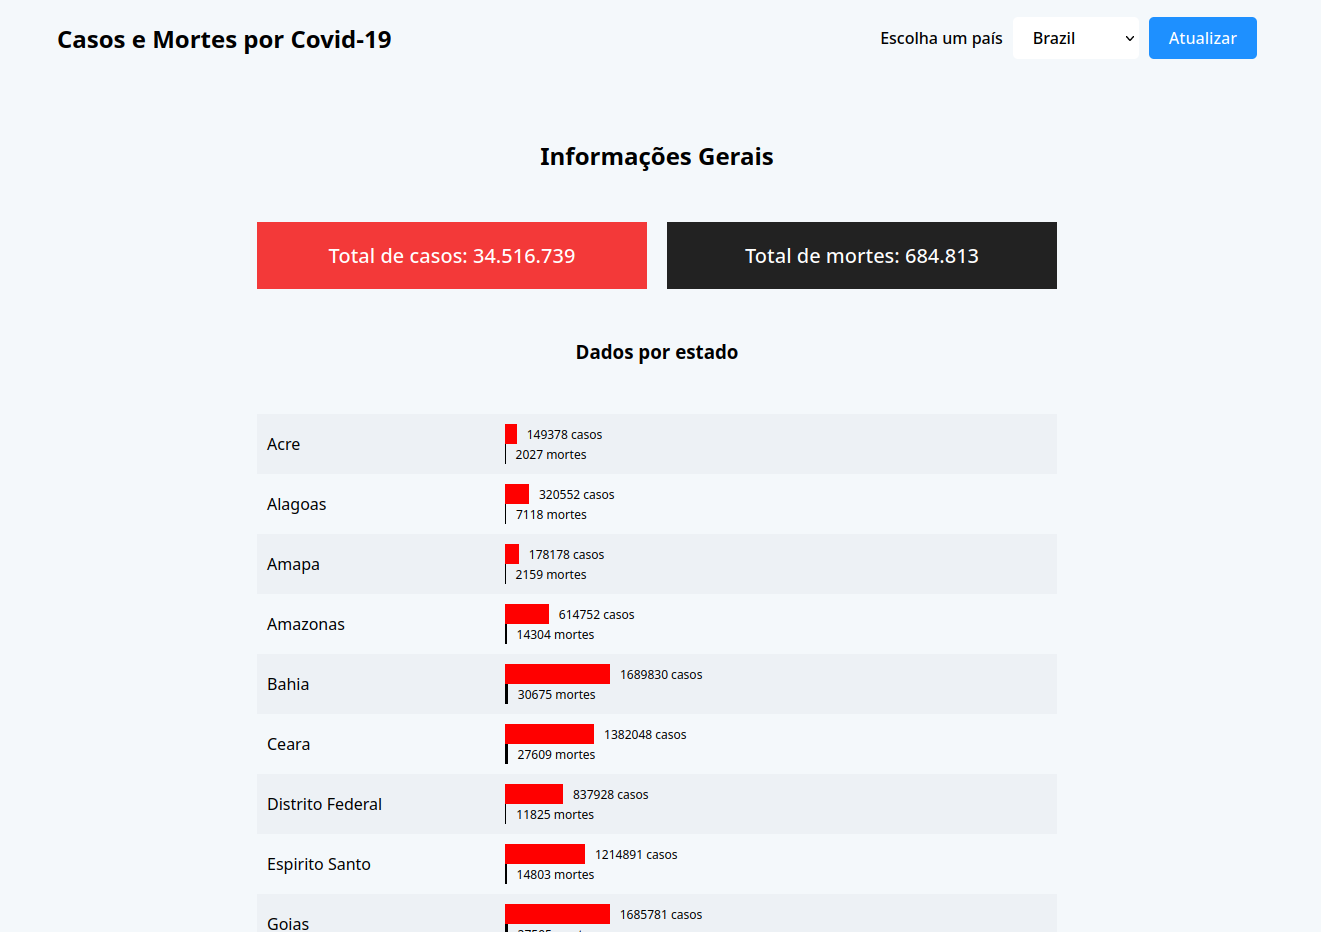
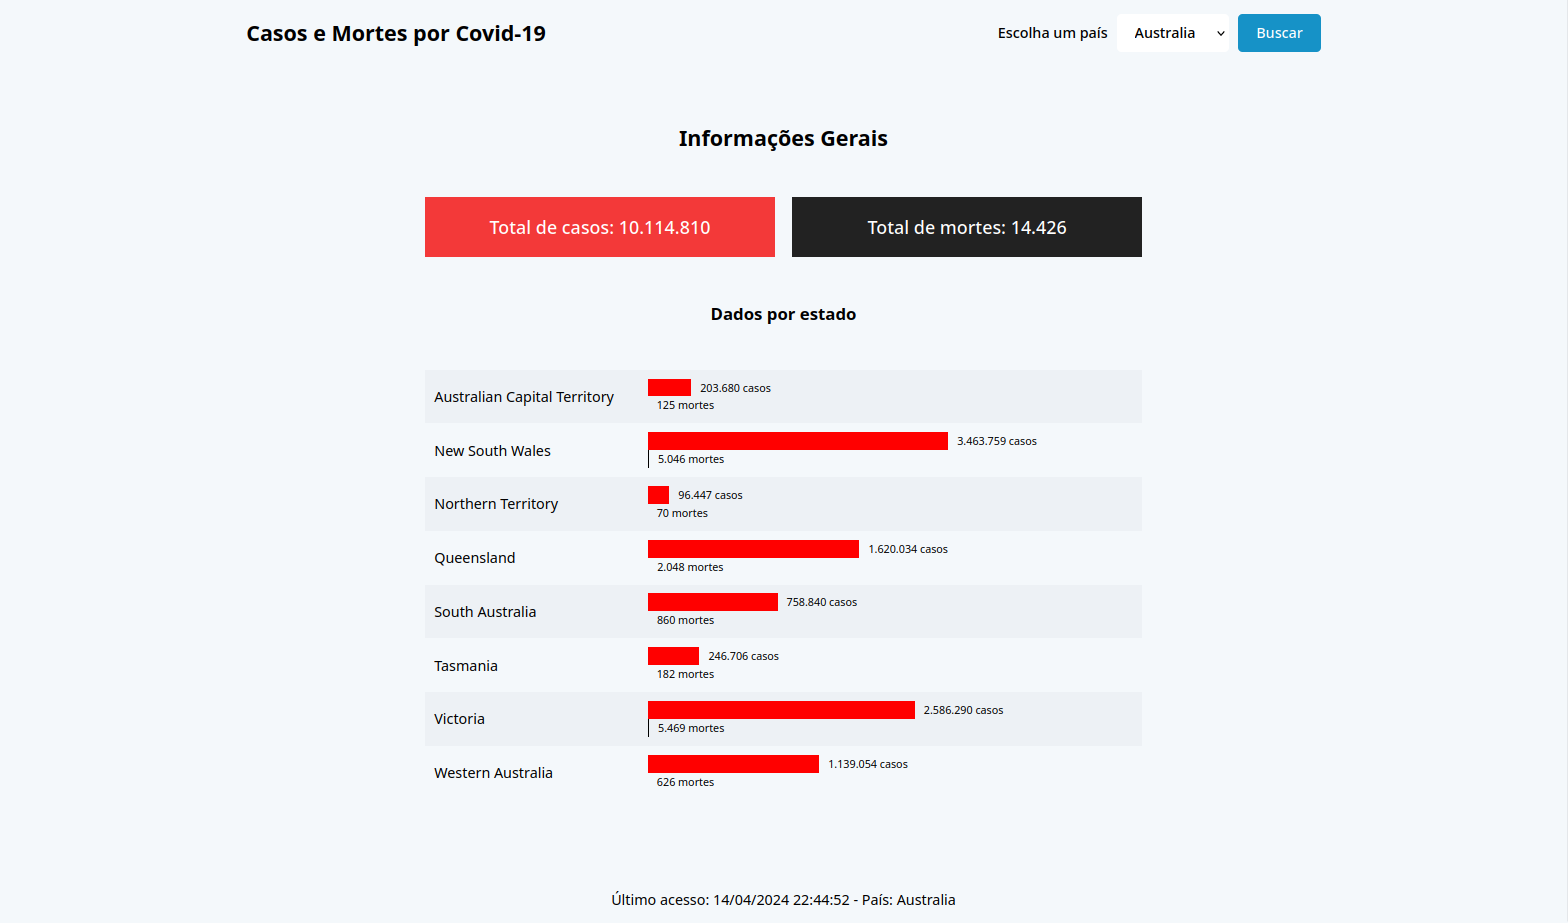
feat: update interface

diff --git a/style.css b/style.css
@@ -36,7 +36,7 @@ header {
 
 header button {
     padding: 10px 20px;
-    background-color: #1E90FF;
+    background-color: #1692c7;
     color: white;
     border: none;
     border-radius: 5px;

diff --git a/data.php b/data.php
@@ -31,11 +31,11 @@
                 echo '<div>';
                     echo '<div class="data-bar">';
                         echo '<div class="bar" style="width: ' . $calc_cases . '%; background-color: #f00; height:20px">&nbsp</div>';
-                        echo '<p>' . $state->Confirmados . ' casos</p>';
+                        echo '<p>' . number_format($state->Confirmados, 0, ',', '.') . ' casos</p>';
                     echo '</div>';
                     echo '<div class="data-bar">';
                         echo '<div class="bar" style="width: ' . $calc_deaths . '%; background-color: #000; height:20px">&nbsp</div>';
-                        echo '<p>' . $state->Mortos . ' mortes</p>';
+                        echo '<p>' . number_format($state->Mortos, 0, ',', '.') . ' mortes</p>';
                     echo '</div>';
                 echo '</div>';
                 echo '</div>';

diff --git a/last-access.php b/last-access.php
@@ -21,8 +21,9 @@
         $row = $result->fetch_assoc();
         $country = $row['pais'];
         $lastAccess = $row['data'];
+        $lastAccessFormatted = date('d/m/Y H:i:s', strtotime($lastAccess));
 
-        echo "<p>Último acesso: " . $lastAccess . " - País: " . $country . "</p>";
+        echo "<p>Último acesso: " . $lastAccessFormatted . " - País: " . $country . "</p>";
 
     } catch (Exception $e) {
         echo "Error fetching data: " . $conn->error;

diff --git a/index.php b/index.php
@@ -17,7 +17,7 @@
                     <?php include 'options.php'?>
                 </select>
 
-                <button type="submit">Atualizar</button>
+                <button type="submit">Buscar</button>
             </form>
         </header>
 
